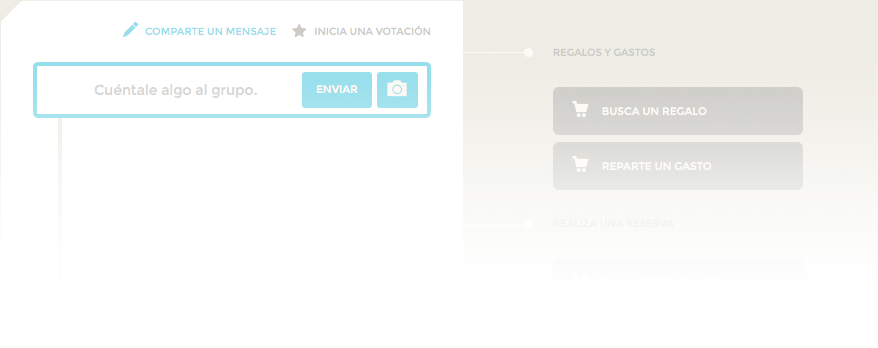
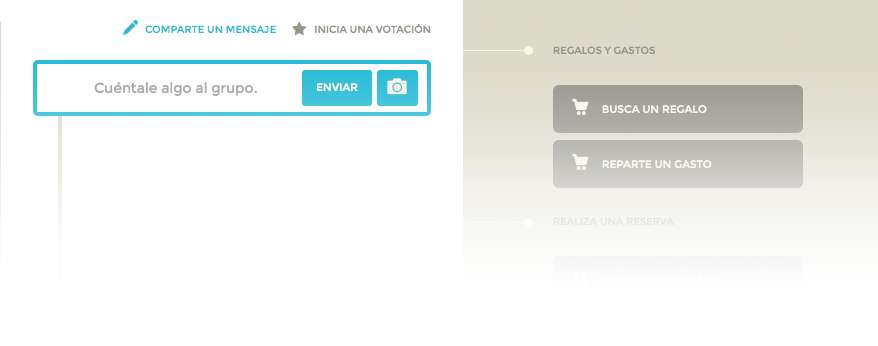
Joinity family & friends, ajustes frontend

diff --git a/static-files/css/general.less b/static-files/css/general.less
@@ -5498,9 +5498,9 @@ max-width:51px!important;
 }
 
 .fondoalfa{
-  background-color: transparent;
+  background-color: transparent!important;
 background-position: center top;
 .background-size(cover);
 height: 300px;
-.opacity(0.5);
+.opacity(0.15);
 }
